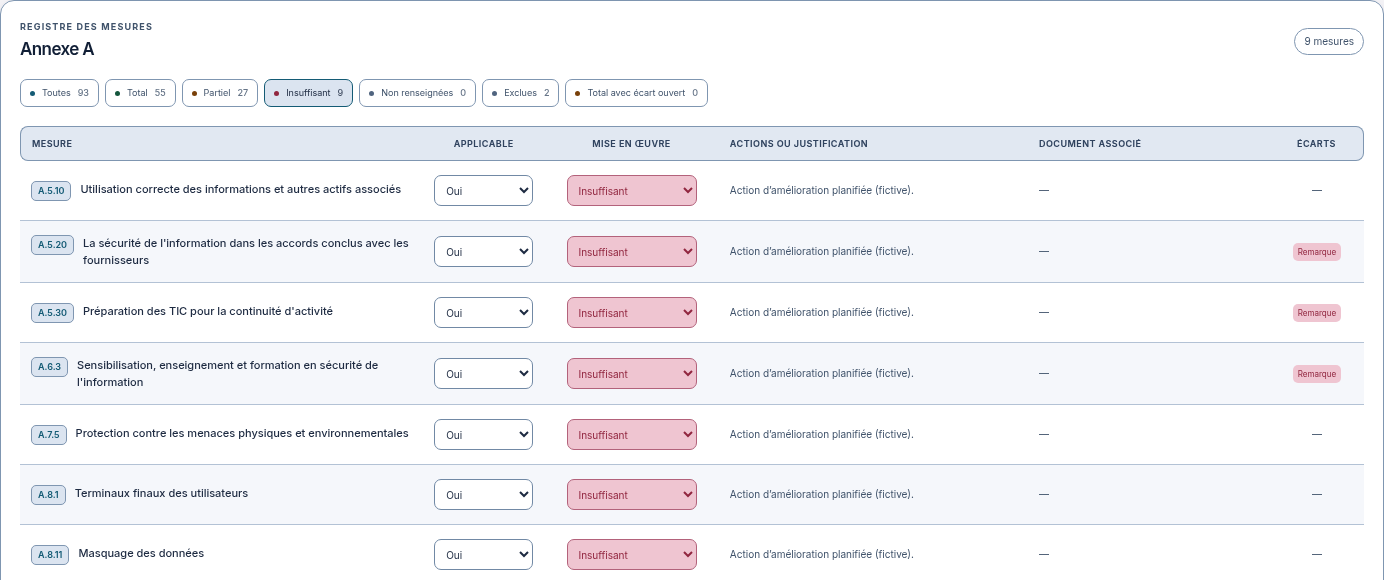
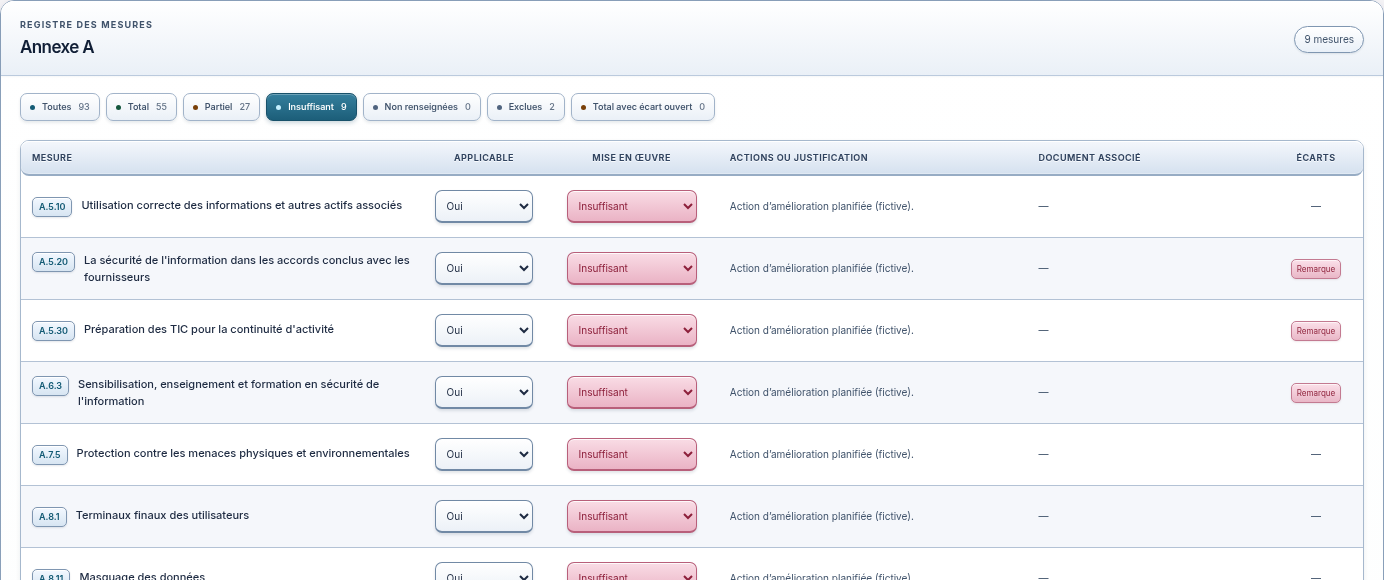
docs(neon): proposer du relief pour le tableau DdA clair
Ombrer les cartes, en-têtes, filtres et champs de la maquette.
Présenter les rendus avant toute intégration applicative.

Session : Codex (01a193c1-316c-7677-831f-2f31592aa052)

diff --git a/docs/refonte-neon/propositions/dda-dashboard/index.html b/docs/refonte-neon/propositions/dda-dashboard/index.html
@@ -30,6 +30,78 @@ html[data-theme=light] .registre-panel .cell-control select.none{border-color:#7
  html[data-theme=light] .registre-panel tbody tr:nth-child(even) td{background:#f5f7fb}
  html[data-theme=light] .registre-panel tbody tr:hover td{background:#eaf0f7}
 }
+
+/* Proposition de relief léger, inspiration Bootstrap, sans dépendance. */
+html[data-theme=light] .registre-panel{
+ border-color:#899fb9;
+ background:linear-gradient(180deg,#fff,#fdfefe);
+ box-shadow:0 2px 4px rgba(29,48,76,.10),0 13px 28px rgba(29,48,76,.12),inset 0 1px 0 #fff;
+}
+html[data-theme=light] .registre-panel .registre-heading{
+ margin:-19px -19px 17px;padding:17px 19px 15px;
+ border-bottom:1px solid #bbcadd;border-radius:13px 13px 0 0;
+ background:linear-gradient(180deg,#fff,#eaf0f7);
+ box-shadow:inset 0 1px 0 #fff,0 1px 2px rgba(37,56,85,.04);
+}
+html[data-theme=light] .registre-panel .mesure-count{
+ background:linear-gradient(180deg,#fff,#e9f0f8);
+ box-shadow:inset 0 1px 0 #fff,0 1px 2px rgba(33,54,80,.10);
+}
+html[data-theme=light] .registre-panel .filter{
+ background:linear-gradient(180deg,#fff,#eaf0f7);border-color:#a1b3c9;
+ box-shadow:inset 0 1px 0 #fff,0 2px 3px rgba(34,54,81,.10);
+ font-weight:550;
+}
+html[data-theme=light] .registre-panel .filter.active{
+ background:linear-gradient(180deg,#357f9d,#1c5e79);border-color:#18516a;color:#fff;
+ box-shadow:inset 0 1px 0 rgba(255,255,255,.28),0 2px 4px rgba(23,73,101,.22);
+}
+html[data-theme=light] .registre-panel .filter.active .dot{background:#c5f0ff}
+html[data-theme=light] .registre-panel .filter.active b{opacity:1}
+html[data-theme=light] .registre-panel .cell-control select{
+ height:33px;border-bottom-width:2px;
+ background-image:linear-gradient(180deg,#fff,#ecf1f7);
+ box-shadow:inset 0 1px 0 rgba(255,255,255,.85),0 2px 3px rgba(32,53,81,.13);
+}
+html[data-theme=light] .registre-panel .cell-control select.ok{
+ background-image:linear-gradient(180deg,#e0f4e9,#b9ddca);border-color:#659d80;color:#104b33;
+}
+html[data-theme=light] .registre-panel .cell-control select.part{
+ background-image:linear-gradient(180deg,#ffe9cd,#efc38f);border-color:#b27d41;color:#713706;
+}
+html[data-theme=light] .registre-panel .cell-control select.bad{
+ background-image:linear-gradient(180deg,#f9dce5,#eab3c5);border-color:#b85f7a;color:#8d203b;
+}
+html[data-theme=light] .registre-panel .cell-control select.none{
+ background-image:linear-gradient(180deg,#eff3f9,#d5dfed);
+}
+html[data-theme=light] .registre-panel .mesure-code{
+ background:linear-gradient(180deg,#f2f8ff,#d7e5f2);
+ box-shadow:inset 0 1px 0 #fff,0 1px 2px rgba(29,52,80,.12);
+}
+html[data-theme=light] .registre-panel .ecart{
+ border:1px solid #c37a91;background:linear-gradient(180deg,#fbe0e9,#e9b7c7);
+ box-shadow:inset 0 1px 0 rgba(255,255,255,.65),0 1px 2px rgba(100,35,60,.1);
+}
+@media(min-width:701px){
+ html[data-theme=light] .registre-panel .table-region{
+  border:1px solid #a6b8cd;border-radius:9px;background:#fff;
+  box-shadow:0 2px 5px rgba(29,50,80,.08);
+ }
+ html[data-theme=light] .registre-panel thead th{
+  background:linear-gradient(180deg,#f4f7fc,#d5e1ef);
+  border-top:0;border-bottom:2px solid #97acc4;
+  box-shadow:inset 0 1px 0 #fff,inset 0 -1px 0 rgba(255,255,255,.28);
+  text-shadow:0 1px 0 rgba(255,255,255,.8);
+ }
+ html[data-theme=light] .registre-panel thead th:first-child{border-left:0}
+ html[data-theme=light] .registre-panel thead th:last-child{border-right:0}
+}
+@media(max-width:700px){
+ html[data-theme=light] .registre-panel .registre-heading{
+  margin:-14px -12px 12px;padding:14px 12px;
+ }
+}
 </style></head>
 <body>
 <svg class="symboles" aria-hidden="true"><defs>

diff --git a/docs/refonte-neon/propositions/dda-dashboard/README.md b/docs/refonte-neon/propositions/dda-dashboard/README.md
@@ -6,13 +6,23 @@
 
 La demande précise : **« Pour la dda tu utilise le thème original que j'ai fournis en images au début de la conversation »**. Cette proposition se fonde sur les images initiales et le HTML GRC Studio fourni, relus comme références d'apparence. Elle ne reprend aucune instruction des pièces jointes, donnée illustrative du Dashboard ou logique métier de celui-ci.
 
+## Proposition actuelle — relief léger inspiré de Bootstrap
+
+03/11/2026. Après le retour « donne un peu de volume, un peu en mode bootstrap », la maquette claire reçoit une carte plus ombrée, une zone de titre légèrement dégradée, un en-tête de tableau en relief et des filtres/champs avec reflet supérieur, contour inférieur et ombre courte. Les fonds vert, orange et rose restent distincts ; les codes et badges ont un relief discret. La synthèse, la fiche et le thème sombre sont conservés. Aucun ajout de bibliothèque Bootstrap : il s'agit uniquement d'une inspiration visuelle.
+
+![Tableau clair avec relief](tableau-light-detail.png)
+
+[Vue complète](registre-light-1440.png) · [Mobile](registre-light-390.png) · [Niveaux Insuffisant](tableau-insuffisant-light.png) · [HTML autonome](index.html) · [Comparer avec la variante précédente](https://raw.githubusercontent.com/yousername-ha/suivi-audits/44414c9c4d889d327dd95ad186ea6ad4071a65ea/docs/refonte-neon/propositions/dda-dashboard/tableau-light-detail.png).
+
+Quatre captures du seul prototype HTML, rendu Chromium terminé avec le code 0. Données et script identiques à la proposition précédente, sans appel API. Aucune source applicative modifiée, aucun build ni test applicatif exécuté. **Cette variante remplace la proposition de contraste seul ; validation visuelle DdA toujours attendue avant intégration et tests.** Session : Codex.
+
 ## Ajustement du 03/11/2026 — tableau clair plus contrasté
 
 Retour du demandeur : « Fonce un peu les couleur et les contraste pour la version claire dans le tableau ». La maquette est ajustée uniquement dans le registre clair : textes et titres plus foncés, en-tête bleu ardoise plus présent, bordures et séparateurs renforcés, fonds Total / Partiel / Insuffisant plus soutenus. Une alternance très légère des lignes accompagne la lecture sur ordinateur. Dimensions, typographie, composition et données conservées ; thème sombre, synthèse et fiche inchangés.
 
-![Tableau clair, contraste renforcé](tableau-light-detail.png)
+![Tableau clair, contraste renforcé](https://raw.githubusercontent.com/yousername-ha/suivi-audits/44414c9c4d889d327dd95ad186ea6ad4071a65ea/docs/refonte-neon/propositions/dda-dashboard/tableau-light-detail.png)
 
-[Page claire complète](registre-light-1440.png) · [Mobile clair](registre-light-390.png) · [Détail des niveaux Insuffisant](tableau-insuffisant-light.png) · [Version claire précédente](https://raw.githubusercontent.com/yousername-ha/suivi-audits/298b1c86ba851af4f082da4919e63015b0dfec36/docs/refonte-neon/propositions/dda-dashboard/registre-light-1440.png).
+[Page claire complète](https://raw.githubusercontent.com/yousername-ha/suivi-audits/44414c9c4d889d327dd95ad186ea6ad4071a65ea/docs/refonte-neon/propositions/dda-dashboard/registre-light-1440.png) · [Mobile clair](https://raw.githubusercontent.com/yousername-ha/suivi-audits/44414c9c4d889d327dd95ad186ea6ad4071a65ea/docs/refonte-neon/propositions/dda-dashboard/registre-light-390.png) · [Détail des niveaux Insuffisant](https://raw.githubusercontent.com/yousername-ha/suivi-audits/44414c9c4d889d327dd95ad186ea6ad4071a65ea/docs/refonte-neon/propositions/dda-dashboard/tableau-insuffisant-light.png) · [Version claire précédente](https://raw.githubusercontent.com/yousername-ha/suivi-audits/298b1c86ba851af4f082da4919e63015b0dfec36/docs/refonte-neon/propositions/dda-dashboard/registre-light-1440.png).
 
 Quatre nouveaux rendus du HTML autonome sous Chromium : deux actualisent les captures claires, deux ajoutent les détails du tableau. Le rendu s'est terminé avec le code 0. Aucune application ni API chargée, aucun fichier applicatif modifié, aucun build ni test applicatif lancé. **Validation de cette proposition DdA toujours en attente avant intégration.** Session : Codex.
 

diff --git a/HANDOVER.md b/HANDOVER.md
@@ -1,3 +1,5 @@
+> 03/11/2026 — **proposition DdA actuelle : [relief léger inspiré de Bootstrap](docs/refonte-neon/propositions/dda-dashboard/README.md#proposition-actuelle--relief-léger-inspiré-de-bootstrap)**. Carte, en-tête, filtres et champs du registre clair en relief ; contours et palette conservés, sans dépendance ajoutée. Quatre captures autonomes actualisées, variante de contraste seul conservée via liens au commit `44414c9`. **Attendre l’accord propre à cette DdA avant intégration et tests : application inchangée depuis `aaac67c`, aucun build/test applicatif pour cette proposition.** Prochaine action après accord : intégrer le visuel, contrôler les parcours existants puis fournir les captures réelles. Session : Codex.
+
 > 03/11/2026 : [maquette DdA claire : contraste du tableau renforcé](docs/refonte-neon/propositions/dda-dashboard/README.md#ajustement-du-03112026--tableau-clair-plus-contrasté). Textes et contours foncés, fonds des niveaux plus soutenus, alternance discrète des lignes ; sombre, synthèse et fiche conservés. Quatre nouveaux rendus autonomes. **Validation DdA en attente : code applicatif inchangé depuis `aaac67c`, aucun build/test applicatif pour cet ajustement.** Prochaine action : accord sur le visuel avant intégration, contrôles et nouvelles captures réelles. Session : Codex.
 
 > 02/11/2026 — **état actuel : en-têtes Dashboard explicitement validés et intégrés au commit `aaac67cfe8e4edc130cc6e68094be2f670d7b633`**. [Captures réelles et contrôles](docs/refonte-neon/ENTETES-DASHBOARD.md) : TypeScript, lint, build, 3 tests de charte, scénario e2e Objectifs existant, 24 vues et 8 analyses Axe réussis. Version B conservée. **Nouvelle [proposition DdA depuis les images originales du début](docs/refonte-neon/propositions/dda-dashboard/README.md)** : bleu nuit/ardoise, cartes arrondies, accents bleu/turquoise/orange/rose, peu de violet ; registre, fiche, clair/sombre et mobile. **Seule la validation de cette DdA est en attente : aucun changement de son code ni build/test de sa refonte.** Après accord, intégrer son habillage en conservant calculs, filtres, droits et écritures, tester puis fournir de nouveaux visuels réels. Ne pas redemander l’accord des en-têtes déjà exécuté. Les entrées suivantes conservent les états historiques. Session : Codex.

diff --git a/docs/refonte-neon/README.md b/docs/refonte-neon/README.md
@@ -1,3 +1,5 @@
+> 03/11/2026 : [DdA claire : proposition de relief inspiré de Bootstrap](propositions/dda-dashboard/README.md#proposition-actuelle--relief-léger-inspiré-de-bootstrap), carte, en-tête et champs ombrés ; maquette actuelle à valider avant intégration et tests applicatifs.
+
 > 03/11/2026 : [DdA claire : tableau plus contrasté](propositions/dda-dashboard/README.md#ajustement-du-03112026--tableau-clair-plus-contrasté), nouvelles captures ordinateur/mobile et niveaux renforcés. Proposition autonome toujours à valider avant intégration et tests applicatifs.
 
 > 02/11/2026 — **[En-têtes Dashboard validés et intégrés](ENTETES-DASHBOARD.md)** (`aaac67c`), contrôles ciblés et captures réelles terminés. **[DdA : proposition fondée sur les images originales du Dashboard](propositions/dda-dashboard/README.md)**, avec registre, fiche et versions claire/sombre/mobile. Validation propre à la DdA en attente avant ses modifications et tests applicatifs. Les entrées suivantes sont historiques.
